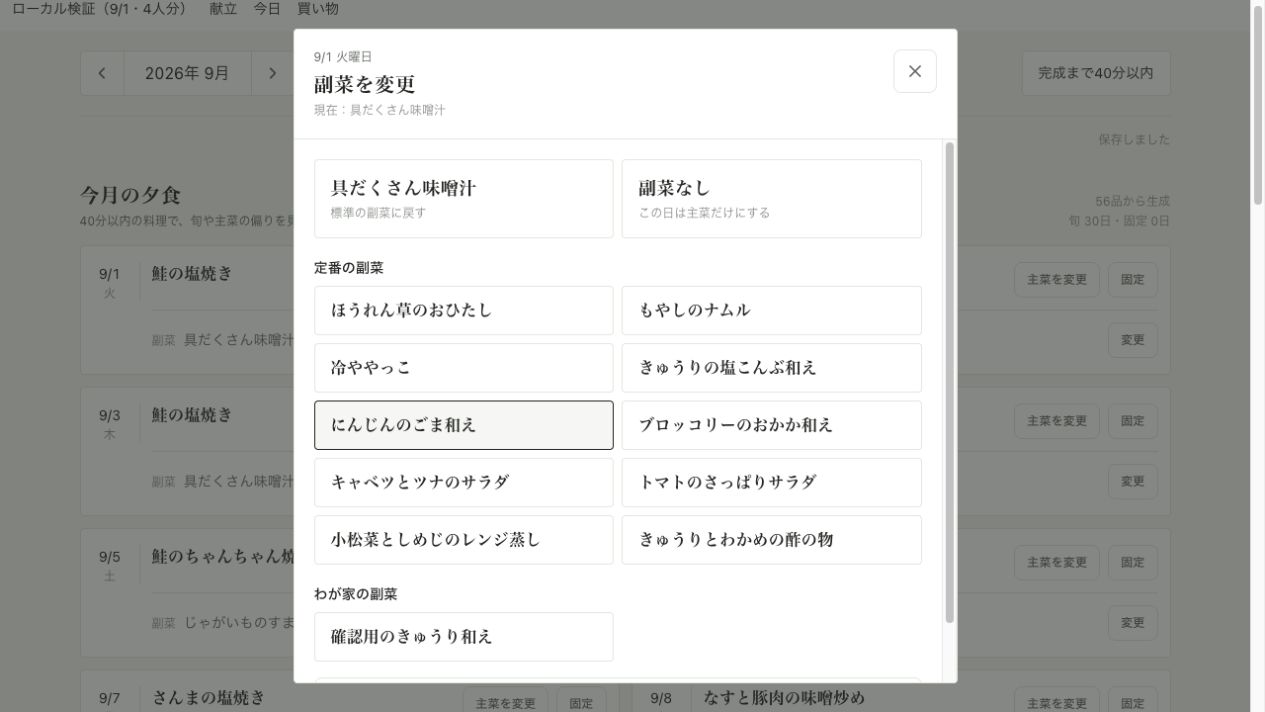
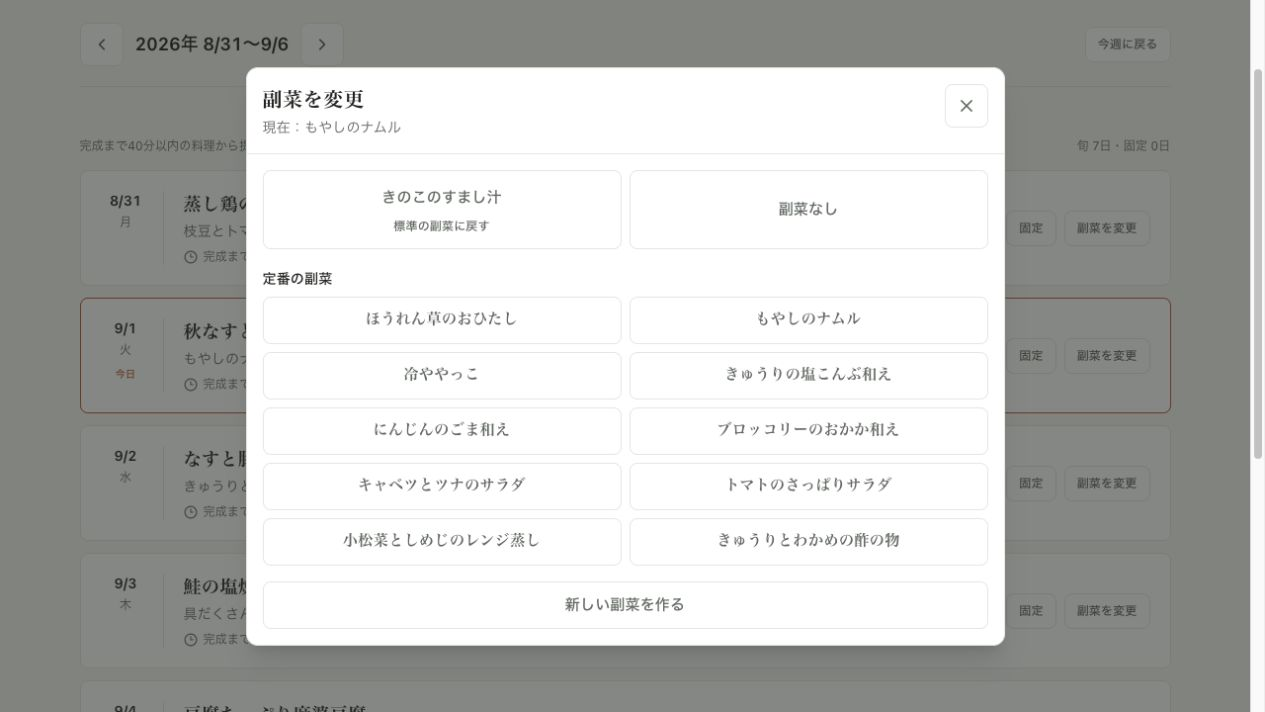
週間献立との統合後の検証記録を更新

diff --git a/docs/standard-side-dishes-validation-2026-09-26.md b/docs/standard-side-dishes-validation-2026-09-26.md
@@ -1,6 +1,6 @@
 # 定番副菜の選択：実装・検証記録
 
-2026-09-26。作業ブランチ：`codex/standard-side-dishes`。基点：`9793086`（確認時のorigin/main）。
+2026-09-26。作業ブランチ：`codex/standard-side-dishes`。基点：`ae389f6`（週間・月間切り替えのPR #58を統合したorigin/main）。
 作業場所：`/private/tmp/kondate-standard-side-dishes`。元の作業場所の未コミット変更は触っていない。
 
 ## 実装した操作
@@ -22,7 +22,7 @@
 
 ## 検証済み
 
-- `npm test`：46ファイル、791件成功。今回追加24件。
+- `npm test`：48ファイル、801件成功。今回追加24件。
 - `npm run typecheck`、`npm run lint`、`npm run build`、`git diff --check`成功。
 - 一時Postgresへ既存の全マイグレーションとseedを適用。
 - `tests/sql/standardSideDishes.sql`：重複防止、保存内容の保持、今日のビューからの再読込、他家庭の参照・更新制限の6項目成功。
@@ -52,3 +52,7 @@ bash scripts/start-standard-side-dishes-preview.sh
 
 `http://127.0.0.1:4326`を開く。`/?failSave=1`は月間献立の保存失敗の検証用。
 本番接続情報は不要で、起動ごとに新しい一時DBを使う。終了すると一時DBサーバーを停止し、検証ログを残す。
+
+## 公開前の統合確認
+
+PR #58の週間・月間表示と統合し、定番選択は新しいSideDishPickerへ移植。主菜変更時にも明示した副菜を保持する仕様をperiodPlanのテストに反映。統合後の週間画面で保存・再読込と保存失敗時の維持を一時DBで再確認。公開操作はユーザー承認済み。
